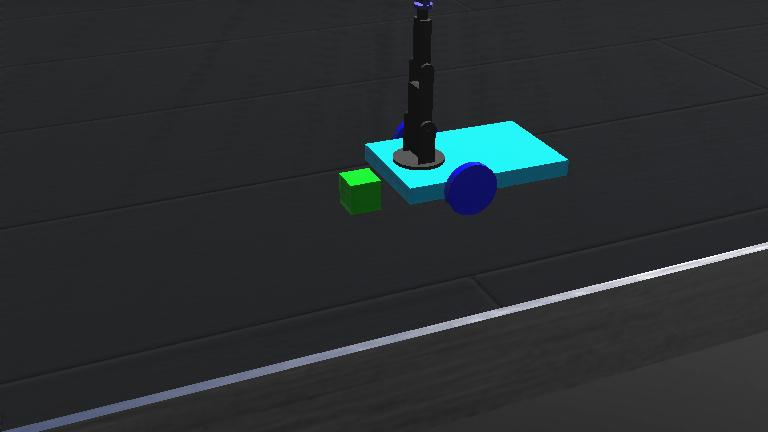
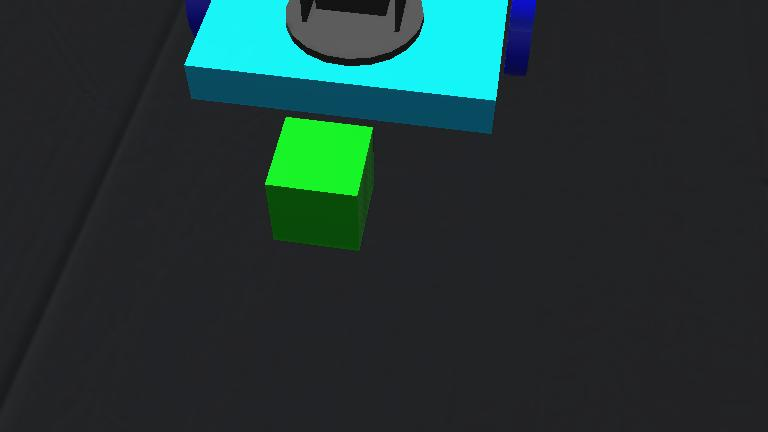
AddedP-Controller

Changed region(s): [[0.2188, 0.0, 0.75, 0.6019], [0.0, 0.5417, 1.0, 1.0], [0.9375, 0.7523, 1.0, 0.8426]]

diff --git a/RobotArena/controllers/my_controller/Resources.py b/RobotArena/controllers/my_controller/Resources.py
@@ -1,29 +1,29 @@
-from controller import Robot
-from controller import Motor
+# from controller import Robot
+# from controller import Motor
 
 
-class Res:
-    def __init__(self):
-        self.robot = Robot()
-        self.timestep = int(self.robot.getBasicTimeStep())
+# class Res:
+#     def __init__(self):
+#         self.robot = Robot()
+#         self.timestep = int(self.robot.getBasicTimeStep())
 
-        self.keyboard = self.robot.getKeyboard()
-        self.keyboard.enable(self.timestep)
+#         self.keyboard = self.robot.getKeyboard()
+#         self.keyboard.enable(self.timestep)
 
-        self.waist_motor: Motor = self.robot.getMotor('waist_motor')
-        self.shoulder_motor: Motor = self.robot.getMotor('shoulder_motor')
-        self.elbow_motor: Motor = self.robot.getMotor('elbow_motor')
-        self.wrist_motor: Motor = self.robot.getMotor('wrist_motor')
-        self.pitch_motor: Motor = self.robot.getMotor('pitch_motor')
+#         self.waist_motor: Motor = self.robot.getMotor('waist_motor')
+#         self.shoulder_motor: Motor = self.robot.getMotor('shoulder_motor')
+#         self.elbow_motor: Motor = self.robot.getMotor('elbow_motor')
+#         self.wrist_motor: Motor = self.robot.getMotor('wrist_motor')
+#         self.pitch_motor: Motor = self.robot.getMotor('pitch_motor')
 
-        self.waist_motor.setPosition(float("inf"))
-        self.shoulder_motor.setPosition(float("inf"))
-        self.elbow_motor.setPosition(float("inf"))
-        self.wrist_motor.setPosition(float("inf"))
-        self.pitch_motor.setPosition(float("inf"))
+#         self.waist_motor.setPosition(float("inf"))
+#         self.shoulder_motor.setPosition(float("inf"))
+#         self.elbow_motor.setPosition(float("inf"))
+#         self.wrist_motor.setPosition(float("inf"))
+#         self.pitch_motor.setPosition(float("inf"))
         
-        self.waist_motor.setVelocity(0)
-        self.shoulder_motor.setVelocity(0)
-        self.elbow_motor.setVelocity(0)
-        self.wrist_motor.setVelocity(0)
-        self.pitch_motor.setVelocity(0)
+#         self.waist_motor.setVelocity(0)
+#         self.shoulder_motor.setVelocity(0)
+#         self.elbow_motor.setVelocity(0)
+#         self.wrist_motor.setVelocity(0)
+#         self.pitch_motor.setVelocity(0)

diff --git a/RobotArena/controllers/my_controller/mainfunction.py b/RobotArena/controllers/my_controller/mainfunction.py
@@ -1,64 +1,23 @@
 """my_controller controller."""
 from ArmController import armcontroll
-from controller import Robot,PositionSensor
-from ArmPositionValues import shoulder_val,WAIST_VAL,wrist_val,pitch_val,elbow_val
+from controller import Robot
 from PositionSensors import Positions
 from SuperArm import Armstatemachine
 from Motors import Motorcontrol
+from Boxdetector import BoxDetector
+
 
 def main():
     robot=Robot()
-    max_velocity=0
     timestep = int(robot.getBasicTimeStep())
     arm=armcontroll(robot)
     car=Motorcontrol(robot)
     pos=Positions(robot,arm)
     superarm=Armstatemachine(robot,arm,pos,car)
+    boxdetect=BoxDetector(robot,car)
     while robot.step(timestep) != -1:
-
-        superarm.pickupbox()
-
-
-        # car.simpleforward()
-        # continue
-        # if (pos.isPositioned() and state==0):
-        #     state=1
-
-        # if state==1 and pos.isCaught():
-        #     state=2
-        # if(state ==2 and t >time_threshold):
-        #     state=3
-        #     t=0
-        # if state==3 and pos.isHung():
-        #     state=4
-        # if state==4 and pos.isPlaced():
-        #     state=5
-
-        # if state==0:
-        #     arm.collectbox(WAIST_VAL,shoulder_val,elbow_val,wrist_val,pitch_val)
-        #     print("running State0")
-        # if state==1:
-        #     arm.catchbox()
-        # if state==2:
-        #     t+=1
-        # if state ==3:
-        #     arm.bringup()
-        # if state ==4:
-        #     arm.putinback(-11,-0.8,-1,0,-1.3)
-        # if state==5:
-        #     car.simpleforward()
-        # print(state)
-        # pass
-        # if(state == 0):
-        #     arm.collectbox(WAIST_VAL,shoulder_val,elbow_val,wrist_val,pitch_val)
-        # if(state == 1):
-        #     ark
-        # # arm.bringup()
-        # # arm.putinback(-11,-1,-0.7,0,-1.3)
-        # # arm.releasefingers()
-        # # arm.bringup()
-        # if(psosmnssd == ,da and state =0):
-        #     state +=1
+        boxdetect.setposition()
+        # superarm.pickupbox()
         pass
 
 # if __name__=="__main__":

diff --git a/RobotArena/controllers/my_controller/Boxdetector.py b/RobotArena/controllers/my_controller/Boxdetector.py
@@ -1,0 +1,55 @@
+from controller import Robot,DistanceSensor
+from Motors import Motorcontrol
+
+class BoxDetector:
+    def __init__(self,robot:Robot,motorcontroller:Motorcontrol):
+        self.robot=Robot()
+        self.TIME_STEP=10
+        self.car=motorcontroller
+
+        self.Left_corner_box_sensor=robot.getDevice("box_sensor_side1.2")
+        self.Left_box_sensor=robot.getDevice("box_sensor_side1")
+        self.Middle_box_sensor=robot.getDevice("box_sensor_middle")
+        self.Right_box_sensor=robot.getDevice("box_sensor_side2")
+        self.Right_corner_box_sensor=robot.getDevice("box_sensor_side2.2")
+
+        self.Left_corner_value=0
+        self.Left_value=0
+        self.Middle_value=0
+        self.Right_value=0
+        self.Right_corner_value=0
+
+    def enablesensors(self):
+        self.Left_box_sensor.enable(self.TIME_STEP)
+        self.Middle_box_sensor.enable(self.TIME_STEP)
+        self.Right_box_sensor.enable(self.TIME_STEP)
+        self.Left_corner_box_sensor.enable(self.TIME_STEP)
+        self.Right_corner_box_sensor.enable(self.TIME_STEP)
+
+        self.Left_corner_value=self.Left_corner_box_sensor.getValue()
+        self.Left_value=self.Left_box_sensor.getValue()
+        self.Middle_value=self.Middle_box_sensor.getValue()
+        self.Right_value=self.Right_box_sensor.getValue()
+        self.Right_corner_value=self.Right_corner_box_sensor.getValue()
+
+
+    def frac(self,reading):
+        return 1/(reading+1)
+
+    def errorfunction(self):
+        alpha=10
+        beta=1
+        gamma=1
+        delta=10
+        error=alpha*self.frac(self.Left_corner_value)+beta*self.frac(self.Left_value)-gamma*self.frac(self.Right_value)-delta*self.frac(self.Right_corner_value)
+        return error
+    
+    def setposition(self):
+        superalpha=100
+        self.enablesensors()
+        error=self.errorfunction()
+        speed=superalpha*error
+        print(speed)
+        self.car.setspeed(speed,-speed)
+
+    

diff --git a/RobotArena/controllers/my_controller/KeyboardControl.py b/RobotArena/controllers/my_controller/KeyboardControl.py
@@ -1,29 +1,29 @@
-from controller import Keyboard
-from ArmController import armcontroll
+# from controller import Keyboard
+# from ArmController import armcontroll
 
-arm=armcontroll
-VELOCITY = 0.1
-keyboard_control_on = True
-CONTROL_KEY = ord('Q')
-actions = {
-    ord('A'): lambda arm: arm.waistcontrol(arm, VELOCITY),
-    ord('D'): lambda arm: arm.shouldercontrol(arm, VELOCITY),
-    ord('S'): lambda arm: arm.elbowcontrol(arm,VELOCITY),
-    ord('W'): lambda arm: arm.wristcontrol(arm,VELOCITY),
-    ord('B'): lambda arm: arm.pitchcontrol(arm,VELOCITY)
-}
+# arm=armcontroll
+# VELOCITY = 0.1
+# keyboard_control_on = True
+# CONTROL_KEY = ord('Q')
+# actions = {
+#     ord('A'): lambda arm: arm.waistcontrol(arm, VELOCITY),
+#     ord('D'): lambda arm: arm.shouldercontrol(arm, VELOCITY),
+#     ord('S'): lambda arm: arm.elbowcontrol(arm,VELOCITY),
+#     ord('W'): lambda arm: arm.wristcontrol(arm,VELOCITY),
+#     ord('B'): lambda arm: arm.pitchcontrol(arm,VELOCITY)
+# }
 
 
-def control_arm_via_keyboard(keyboard: Keyboard, arm: arm):
-    key = None
-    global keyboard_control_on
-    key = keyboard.getKey()
-    if(key == CONTROL_KEY):
-        keyboard_control_on = not(keyboard_control_on)
-    if(not keyboard_control_on):
-        return
-    if(key in actions):
-        actions[key](arm)
-        return
+# def control_arm_via_keyboard(keyboard: Keyboard, arm: arm):
+#     key = None
+#     global keyboard_control_on
+#     key = keyboard.getKey()
+#     if(key == CONTROL_KEY):
+#         keyboard_control_on = not(keyboard_control_on)
+#     if(not keyboard_control_on):
+#         return
+#     if(key in actions):
+#         actions[key](arm)
+#         return
 
-    arm.stoparm()
+#     arm.stoparm()

diff --git a/RobotArena/controllers/my_controller/PositionSensors.py b/RobotArena/controllers/my_controller/PositionSensors.py
@@ -55,14 +55,14 @@ class Positions:
         wrist_val=self.wrist.getValue()
         pitch_val=self.pitch.getValue()
         arr=[waist_val,shoulder_val,elbow_val,wrist_val,pitch_val]
-        print(arr)
+        # print(arr)
         return arr
 
     def isPositioned(self):
         arr=self.positionvalues()
         real_values=[-11,0.5,2.2,0,0.15]
 
-        print(arr,real_values)
+        # print(arr,real_values)
         for realv,arrv in zip(real_values,arr):
             if arrv is None:
                 return False
@@ -75,7 +75,7 @@ class Positions:
         left_val=self.left_finger.getValue()
         arr=[right_val,left_val]
         real_values=[-1,1]
-        print(arr,real_values)
+        # print(arr,real_values)
         for realv,arrv in zip(real_values,arr):
             if arrv is None:
                 return False
@@ -87,7 +87,7 @@ class Positions:
         arr=self.positionvalues()
         real_values=[-11,0,0,0,0]
 
-        print(arr,real_values)
+        # print(arr,real_values)
         for realv,arrv in zip(real_values,arr):
             if arrv is None:
                 return False
@@ -99,7 +99,7 @@ class Positions:
         arr=self.positionvalues()
         real_values=[-11,-0.8,-1,0,-1.3]
 
-        print(arr,real_values)
+        # print(arr,real_values)
         for realv,arrv in zip(real_values,arr):
             if arrv is None:
                 return False

diff --git a/RobotArena/controllers/my_controller/Motors.py b/RobotArena/controllers/my_controller/Motors.py
@@ -3,7 +3,7 @@ from controller import Robot
 class Motorcontrol:
     def __init__(self,robot:Robot):
         self.robot = robot
-        self.maxvelocity=3
+        self.maxvelocity=-3
         self.left_motor1 = self.robot.getMotor("Left_motor1")
         self.right_motor1 = self.robot.getMotor("Right_motor1")
         self.left_motor1.setPosition(float('inf'))
@@ -12,13 +12,17 @@ class Motorcontrol:
         self.right_motor1.setVelocity(0)
 
     def setspeed(self,left_motor_v,right_motor_v):
-        left_motor_v=left_motor_v*self.maxvelocity
-        right_motor_v=right_motor_v*self.maxvelocity
+        # left_motor_v=left_motor_v*self.maxvelocity
+        # right_motor_v=right_motor_v*self.maxvelocity
         self.left_motor1.setVelocity(left_motor_v)
         self.right_motor1.setVelocity(right_motor_v)
 
     def simpleforward(self):
+        self.left_motor1.setVelocity(self.maxvelocity)
+        self.right_motor1.setVelocity(self.maxvelocity)
+
+    def simpleturnleft(self):
         self.left_motor1.setVelocity(-self.maxvelocity)
-        self.right_motor1.setVelocity(-self.maxvelocity)
+        self.right_motor1.setVelocity(self.maxvelocity)
 
         

diff --git a/RobotArena/controllers/my_controller/Robotclass.py b/RobotArena/controllers/my_controller/Robotclass.py
@@ -1,17 +1,17 @@
-from controller import Robot
-from ArmController import armcontroll
-from communi import new_arm
-from KeyboardControl import control_arm_via_keyboard
-from Resources import Res
-##Testing Arm
+# from controller import Robot
+# from ArmController import armcontroll
+# from communi import new_arm
+# from KeyboardControl import control_arm_via_keyboard
+# from Resources import Res
+# ##Testing Arm
 
-def main():
-    res=Res()
-    robot=Robot()
-    arm=armcontroll(robot)
-    while res.robot.step(res.timestep) != -1:
-            new_arm(arm, res)
-            control_arm_via_keyboard(res.keyboard, arm)
+# def main():
+#     res=Res()
+#     robot=Robot()
+#     arm=armcontroll(robot)
+#     while res.robot.step(res.timestep) != -1:
+#             new_arm(arm, res)
+#             control_arm_via_keyboard(res.keyboard, arm)
 
 
 

diff --git a/RobotArena/controllers/my_controller/communi.py b/RobotArena/controllers/my_controller/communi.py
@@ -1,9 +1,9 @@
-from ArmController import armcontroll
-from Resources import Res
+# from ArmController import armcontroll
+# from Resources import Res
 
-def new_arm(arm :armcontroll,Res : Res):
-    Res.waist_motor.setVelocity(arm.velocity)
-    Res.shoulder_motor.setVelocity(arm.velocity)
-    Res.elbow_motor.setVelocity(arm.velocity)
-    Res.wrist_motor.setVelocity(arm.velocity)
-    Res.pitch_motor.setVelocity(arm.velocity)
+# def new_arm(arm :armcontroll,Res : Res):
+#     Res.waist_motor.setVelocity(arm.velocity)
+#     Res.shoulder_motor.setVelocity(arm.velocity)
+#     Res.elbow_motor.setVelocity(arm.velocity)
+#     Res.wrist_motor.setVelocity(arm.velocity)
+#     Res.pitch_motor.setVelocity(arm.velocity)
